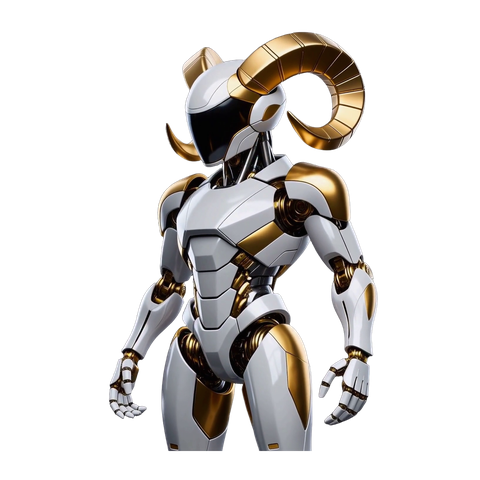
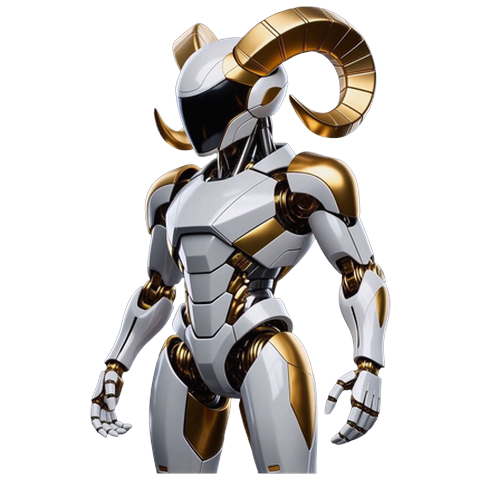
레벨1 보상 흐름 개선: 회전 복귀 연출, 음향 페이드, 지도 자동포커스, 재진입 버그 수정
- 박스가 회전+확대로 나타나는 연출이 느린 기기에서 순간이동처럼 보이던 문제를
  포기하고, 대신 사라졌던 양 그림이 회전하며 중앙으로 되돌아온 뒤 곧바로 검은
  박스+영상으로 전환하는 방식으로 교체(사용자 확인: 이 기기에서 문제없이 재생됨)
- 아이콘 16개가 사라지는 수렴 지점을 양과 더 가깝게 좁힘
- 변신 영상 종료 시 음향 페이드아웃을 ontimeupdate(성김) 대신 매 프레임
  requestAnimationFrame으로 바꾸고, 직선이 아닌 제곱 곡선으로 감쇠(체감상 자연스러움)
- 배경 제거된 완성 로봇 이미지(sheep-final-transparent.png)를 영상 마지막 프레임과
  같은 비율로 재조정(전환 시 크기가 작아 보이던 문제 수정)
- 퍼즐 완료 후 확대+블러 전환: 속도 완화(1.1s→2.5s), 블러 강도 완화(20px→8px),
  전반부는 또렷하게 커지다 후반부에만 블러/페이드 적용
- 지도 화면 진입 시 항상 스테이지1로 리셋되던 것을, 이어할 스테이지(첫 미클리어
  스테이지)로 자동 포커스하도록 수정
- 레벨1 퍼즐을 다 푼 뒤에도 내부 rewardPuzzle 상태가 안 지워져, 뒤로가기로
  재진입하면 "아직 진행 중"으로 착각해 16개 도안 아이콘 목록을 계속 숨기던
  버그 수정
- sw.js 캐시 버전 v257 → v258

Claude-Session: https://claude.ai/code/session_01NsU4JzqSpHxBentSWbq8QE

Changed region(s): [[0.1875, 0.0, 0.8125, 1.0]]

diff --git a/app.js b/app.js
@@ -1114,8 +1114,19 @@
     }
   }
 
+  // 2026-08-22: "스테이지1 클리어로 자동으로 스테이지2 넘어가는데, 지도 화면은 계속
+  // 스테이지1에 떠있다" 신고 — renderMap()이 매번 무조건 mapCarouselIndex를 0(스테이지1)으로
+  // 되돌려서, 진행 상황과 무관하게 항상 첫 스테이지가 보였다. 아직 안 깬 첫 스테이지(=이어할
+  // 곳)를 기본 위치로 잡는다 — 다 깼으면 마지막 스테이지.
+  function defaultMapCarouselIndex() {
+    for (let lv = 1; lv <= TOTAL_LEVELS; lv++) {
+      if (!isLevelCleared(lv)) return lv - 1;
+    }
+    return TOTAL_LEVELS - 1;
+  }
+
   function renderMap() {
-    mapCarouselIndex = 0;
+    mapCarouselIndex = defaultMapCarouselIndex();
     mapGrid.innerHTML = '';
     const wrap = document.createElement('div');
     wrap.className = 'level-node-wrap';
@@ -1365,9 +1376,18 @@
     if (currentLevel > 1) openLevel(currentLevel - 1);
   });
 
+  // 2026-08-22: "왜 오래 걸리는지 모르겠다" — 콘솔에 시간 정보가 없어서 어디서 지연되는지
+  // 못 봤다. 타임스탬프 설정을 못 찾는다는 피드백으로, 로그 문구 자체에 경과시간(ms)을
+  // 박아넣는다(레벨 진입 시점 기준). DevTools 설정을 안 건드려도 된다.
+  let puzzleFlowT0 = 0;
+  function plog(msg) {
+    console.log('[퍼즐] ' + msg + '  (+' + Math.round(performance.now() - puzzleFlowT0) + 'ms)');
+  }
+
   // ================= 레벨별 도안 갤러리 =================
   function openLevel(level) {
-    console.log('[퍼즐] openLevel(' + level + ') 진입');
+    puzzleFlowT0 = performance.now();
+    plog('openLevel(' + level + ') 진입');
     clearPendingCelebrationOverlays();
     currentBossMode = null;
     currentLevel = level;
@@ -1394,6 +1414,7 @@
     // 꼬였다. 재진입 시 이전 영상 재생/콜백을 확실히 끊는다.
     levelRewardVideo.pause();
     levelRewardVideo.onended = null;
+    if (rewardVideoFadeRAF) { cancelAnimationFrame(rewardVideoFadeRAF); rewardVideoFadeRAF = null; }
     levelRewardVideo.removeAttribute('src');
     levelRewardVideo.hidden = true;
     if (isLevelCleared(level)) clearLevelAttempt(level); // 이미 클리어된 레벨은 타이머 불필요
@@ -1843,9 +1864,10 @@
       ghost.style.width = fromRect.width + 'px';
       ghost.style.height = fromRect.height + 'px';
       document.body.appendChild(ghost);
-      // 겹치지 않도록: 도착점을 중앙 지점 주변으로 살짝(±25px) 흩뿌리고, 시작 지연도 조금씩 다르게.
-      const jitterX = (Math.random() - 0.5) * 50;
-      const jitterY = (Math.random() - 0.5) * 50;
+      // 2026-08-22: "양이 사라지는 지점이랑 아이콘 지점이 안 맞아 보인다" 피드백 — 겹침
+      // 방지용 흩뿌림 반경을 ±25px→±8px로 줄여 한 점에 훨씬 가깝게 모이게 한다.
+      const jitterX = (Math.random() - 0.5) * 16;
+      const jitterY = (Math.random() - 0.5) * 16;
       const dx = (targetX + jitterX) - (fromRect.left + fromRect.width / 2);
       const dy = (targetY + jitterY) - (fromRect.top + fromRect.height / 2);
       const delay = i * 25;
@@ -1899,7 +1921,7 @@
     // 재진입 등) 이 가드로 바로 return해버리면 그 아래 숨김 로직을 다시 안 타서 계속 보였다.
     // 진행 중인 퍼즐이 있으면 여기서도 숨김을 다시 확인해준다.
     if (rewardPuzzle && rewardPuzzle.level === level) {
-      console.log('[퍼즐] maybeShowRewardPuzzle: 이미 진행 중(레벨' + level + '), galleryGrid 재숨김');
+      plog('maybeShowRewardPuzzle: 이미 진행 중(레벨' + level + '), galleryGrid 재숨김');
       galleryGrid.hidden = true;
       return; // 이미 진행 중
     }
@@ -1909,7 +1931,7 @@
     const scores = getScores();
     const doneCount = list.filter((t) => isMastered(t.id, scores)).length;
     if (doneCount < list.length) return; // 아직 다 안 깼음
-    console.log('[퍼즐] 16개 완료 확인, 레벨' + level + ' 퍼즐 초기화 시작');
+    plog('16개 완료 확인, 레벨' + level + ' 퍼즐 초기화 시작');
     const dims = puzzleDimsForLevel(level);
     rewardPuzzle = {
       level: level,
@@ -1987,13 +2009,19 @@
   // 나오는 연출(explodeIntoPuzzle)과 같은 방식이라 좌표 계산 없이도 항상 정확하다.
   // 2026-08-22: 트레이-박스-트레이가 계속 움직인다는 신고가 반복됐다 — 원인을 하나씩 막아도
   // (margin:auto 위치, [hidden] 우선순위, align-items, 트레이 접힘...) 매번 다른 경로로 다시
-  // 움직여서, 원인 추적 대신 "물리적으로 움직일 수 없게" 매 프레임 좌표를 다시 박아버리는
-  // watchdog으로 바꾼다 — 뭐가 원인이든 상관없이 100% 고정된다.
-  let rewardTrioLockRAF = null;
+  // 움직여서, 원인 추적 대신 "물리적으로 움직일 수 없게" 좌표를 박아버리는 방식으로 바꿨다.
+  // 처음엔 매 프레임(rAF 루프) 재적용이었는데, 이게 변신 영상 재생 10초 내내 쉬지 않고
+  // 돌면서 느린 기기에서 메인스레드를 영상 디코딩과 계속 다투게 만들어(사용자 실측 영상에서
+  // 확인: 흰 화면 정지 + 박스 확대회전 연출이 안 보이고 순간이동하듯 나타남) 성능 문제를
+  // 일으켰다. 한 번만 고정하고, 화면 크기가 바뀔 때만(리사이즈) 다시 고정하는 걸로 바꾼다 —
+  // 이 좌표를 건드리는 다른 코드가 없는 구간이라(reserveTrayHeight 등은 lock 이전에 끝남)
+  // 안전하다.
+  let rewardTrioLockResizeHandler = null;
+  let rewardVideoFadeRAF = null;
   function lockRewardTrioPosition() {
     const els = [rewardPuzzleTrayTop, levelReward, rewardPuzzleTrayBottom];
-    const fixed = els.map((el) => el.getBoundingClientRect());
     const apply = () => {
+      const fixed = els.map((el) => el.getBoundingClientRect());
       els.forEach((el, i) => {
         el.style.position = 'fixed';
         el.style.top = fixed[i].top + 'px';
@@ -2001,13 +2029,14 @@
         el.style.width = fixed[i].width + 'px';
         el.style.margin = '0';
       });
-      rewardTrioLockRAF = requestAnimationFrame(apply);
     };
-    if (rewardTrioLockRAF) cancelAnimationFrame(rewardTrioLockRAF);
     apply();
+    if (rewardTrioLockResizeHandler) window.removeEventListener('resize', rewardTrioLockResizeHandler);
+    rewardTrioLockResizeHandler = apply;
+    window.addEventListener('resize', rewardTrioLockResizeHandler);
   }
   function unlockRewardTrioPosition() {
-    if (rewardTrioLockRAF) { cancelAnimationFrame(rewardTrioLockRAF); rewardTrioLockRAF = null; }
+    if (rewardTrioLockResizeHandler) { window.removeEventListener('resize', rewardTrioLockResizeHandler); rewardTrioLockResizeHandler = null; }
     [rewardPuzzleTrayTop, levelReward, rewardPuzzleTrayBottom].forEach((el) => {
       el.style.position = '';
       el.style.top = '';
@@ -2018,35 +2047,31 @@
   }
 
   function moveRewardBoxToCenter(level, onDone) {
-    console.log('[퍼즐] moveRewardBoxToCenter 시작 — 박스를 중앙에 점에서부터 확대');
-    // 2026-08-22: "빈 박스가 화면을 가로질러 슬라이드하는 게 이상하다, 중앙에서 점부터
-    // 확대되게" 요청 — 예전엔 원래 자리→중앙으로 실제로 슬라이드(FLIP)했는데, 이 시점엔
-    // 이미 그림/아이콘이 다 사라진 뒤라 "빈 크림색 박스"가 화면을 가로질러 미끄러지는 것처럼
-    // 보였다. 이제 슬라이드 없이 중앙 자리에 바로(안 보이게, scale:0) 배치한 뒤 그 자리에서만
-    // 커지게 한다 — 위치 이동 자체가 없으니 "박스가 위로 간다" 문제도 원천적으로 없다.
+    plog('moveRewardBoxToCenter 시작 — 양이 회전하며 중앙으로 되돌아온 뒤 박스로 전환');
+    // 2026-08-22: "박스가 나타나는" 연출을 여러 방식(회전+확대, 위아래로만 커지기)으로
+    // 시도했는데 느린 기기에서 전부 순간이동처럼 보여 포기 — 대신 방금 중앙으로 사라졌던
+    // 그 양 그림(levelRewardArt)이 회전하며 같은 자리로 되돌아오는 걸로 대체한다(사용자
+    // 확인: "사라졌던 양이 다시 중앙으로", "1번"). 사라지는 쪽(scatterMosaicIn)은 이 기기
+    // 에서도 문제없이 보였으니 그 반대 방향도 같은 이유로 잘 보일 가능성이 높다. 다 돌아온
+    // 뒤엔 곧바로(추가 연출 없이) 검은 박스+영상으로 넘어간다(스타일시트 reward-art-return
+    // 참고).
     galleryGrid.classList.add('gallery-grid-hiding');
     setTimeout(() => {
-      if (currentLevel !== level) { console.log('[퍼즐] moveRewardBoxToCenter: 그 사이 레벨 변경됨(' + currentLevel + '≠' + level + '), 중단'); onDone(); return; }
+      if (currentLevel !== level) { plog('moveRewardBoxToCenter: 그 사이 레벨 변경됨(' + currentLevel + '≠' + level + '), 중단'); onDone(); return; }
       galleryGrid.hidden = true;
       galleryGrid.classList.remove('gallery-grid-hiding');
       reserveTrayHeight(rewardPuzzle.dims); // 트레이가 나중에 채워져도 더는 안 흔들리게 지금 미리 자리를 예약
       levelReward.classList.add('reward-centered');
       rewardPuzzleTrayTop.classList.add('reward-tray-anchor-top');
       rewardPuzzleTrayBottom.classList.add('reward-tray-anchor-bottom');
-      // 2026-08-22: "밋밋하다, 점에서 빙글빙글 돌며 커지면서 제자리로" 요청 — 회전도 같이 준다.
-      levelRewardStage.style.transition = 'none';
-      levelRewardStage.style.transform = 'scale(0) rotate(-540deg)';
-      lockRewardTrioPosition(); // 지금 이 좌표(=화면 중앙)에 매 프레임 강제 고정, 다시는 안 움직임.
-      requestAnimationFrame(() => {
-        requestAnimationFrame(() => {
-          levelRewardStage.style.transition = 'transform 0.7s cubic-bezier(0.34, 1.2, 0.4, 1)';
-          levelRewardStage.style.transform = '';
-          setTimeout(() => {
-            levelRewardStage.style.transition = '';
-            onDone();
-          }, 700);
-        });
-      });
+      lockRewardTrioPosition(); // 지금 이 좌표(=화면 중앙)에 고정, 다시는 안 움직임.
+      levelRewardArt.classList.add('reward-art-return');
+      setTimeout(() => {
+        levelRewardArt.classList.remove('reward-art-return');
+        levelRewardArt.style.opacity = '';
+        levelRewardArt.style.transform = '';
+        onDone();
+      }, 1100);
     }, 320);
   }
 
@@ -2057,7 +2082,7 @@
   // 작은 검정 박스 밖으로 튀어나와 보임. 화면 크기에 안 맞는 고정 배율 대신, 실제 뷰포트
   // 기준으로 배율을 계산해서 어떤 화면에서도 확실히 화면을 덮게 한다.
   function zoomRewardToFullscreenAndAdvance(level) {
-    console.log('[퍼즐] zoomRewardToFullscreenAndAdvance 시작 — 화면 꽉 채우게 확대');
+    plog('zoomRewardToFullscreenAndAdvance 시작 — 화면 꽉 채우게 확대');
     const rect = levelRewardStage.getBoundingClientRect();
     const scale = (Math.max(window.innerWidth, window.innerHeight) / Math.min(rect.width, rect.height)) * 1.15;
     // 2026-08-22: "박스가 위로 올라갔다"(사용자 실측) — playExcellent()의 시각 문구
@@ -2066,23 +2091,31 @@
     playExcellent(true);
     // 2026-08-22: "커지면서 희미해지게" + "클로즈샷 흐리게" 요청 — 확대와 함께 서서히
     // 투명해지고 블러(초점이 나가는 느낌)되다가 다음 레벨로 넘어감.
-    levelRewardStage.style.transition = 'transform 1.1s cubic-bezier(0.45, 0, 0.4, 1), opacity 1.1s ease-in, filter 1.1s ease-in';
+    // 2026-08-22(2차): "너무 확 커진다" — 속도를 늦춘다(1.1s → 2.5s).
+    // 2026-08-22(3차): "너무 희미하고 안 선명하다" — 블러를 20px→8px로 완화하고, 확대
+    // 전반(60%)은 또렷하게 커지기만 하다가 마지막 40%에서만 페이드+블러가 들어가게 한다.
+    const ZOOM_SEC = 2.5;
+    const FADE_DELAY_SEC = ZOOM_SEC * 0.6;
+    const FADE_SEC = ZOOM_SEC - FADE_DELAY_SEC;
+    levelRewardStage.style.transition = 'transform ' + ZOOM_SEC + 's cubic-bezier(0.45, 0, 0.4, 1), '
+      + 'opacity ' + FADE_SEC + 's ease-in ' + FADE_DELAY_SEC + 's, '
+      + 'filter ' + FADE_SEC + 's ease-in ' + FADE_DELAY_SEC + 's';
     requestAnimationFrame(() => {
       levelRewardStage.style.transform = 'scale(' + scale.toFixed(2) + ')';
       levelRewardStage.style.opacity = '0';
-      levelRewardStage.style.filter = 'blur(20px)';
+      levelRewardStage.style.filter = 'blur(8px)';
     });
     setTimeout(() => {
-      if (currentLevel !== level) { console.log('[퍼즐] 확대 완료 시점에 레벨 불일치, 다음 레벨 이동 안 함'); return; }
+      if (currentLevel !== level) { plog('확대 완료 시점에 레벨 불일치, 다음 레벨 이동 안 함'); return; }
       const nextLevel = level + 1;
       if (nextLevel <= TOTAL_LEVELS && isLevelUnlocked(nextLevel)) {
-        console.log('[퍼즐] 다음 스테이지(' + nextLevel + ')로 이동');
+        plog('다음 스테이지(' + nextLevel + ')로 이동');
         openLevel(nextLevel);
       } else {
-        console.log('[퍼즐] 다음 스테이지 없음/잠김 — 지도로 이동');
+        plog('다음 스테이지 없음/잠김 — 지도로 이동');
         goToMap();
       }
-    }, 1100);
+    }, 2500);
   }
 
   // 레벨1: goal 박스(#level-reward-stage) 안에서만 변신 영상을 재생한다. 영상 원본 배경이
@@ -2109,19 +2142,31 @@
         levelRewardVideo.muted = true;
         levelRewardVideo.play();
       });
-      console.log('[퍼즐] 변신 영상 재생 시작');
+      plog('변신 영상 재생 시작');
       // 2026-08-22: "마지막에 소리가 뚝 끊겨서 이상하다" 요청 — 원본 음원 자체가 페이드아웃
       // 없이 끝나서, 끝나기 직전 0.6초 동안 볼륨을 서서히 낮춰 부드럽게 마무리한다.
+      // 처음엔 ontimeupdate로 했는데, 이 이벤트는 브라우저가 대략 초당 4번 정도만 불러줘서
+      // (스펙상 보장 안 됨) 0.6초짜리 페이드 구간에 1~2번밖에 안 걸려 여전히 뚝 끊기는
+      // 것처럼 들렸다 — 매 프레임 확인하는 requestAnimationFrame으로 바꿔 촘촘하게 낮춘다.
       const FADE_OUT_SEC = 0.6;
-      levelRewardVideo.ontimeupdate = () => {
+      if (rewardVideoFadeRAF) cancelAnimationFrame(rewardVideoFadeRAF);
+      const fadeTick = () => {
+        if (levelRewardVideo.paused || levelRewardVideo.ended) { rewardVideoFadeRAF = null; return; }
         const remain = levelRewardVideo.duration - levelRewardVideo.currentTime;
         if (isFinite(remain) && remain <= FADE_OUT_SEC) {
-          levelRewardVideo.volume = Math.max(0, remain / FADE_OUT_SEC);
+          // 2026-08-22: "그래도 끊기는 느낌" — 볼륨을 직선(linear)으로 줄이면, 사람 귀는
+          // 소리 크기를 로그로 느끼기 때문에 대부분 구간에서 거의 안 줄어든 것처럼 들리다가
+          // 막판에 갑자기 확 조용해져 여전히 "뚝 끊김"처럼 느껴진다. 제곱 곡선으로 바꿔
+          // 체감 감쇠를 고르게 만든다.
+          const t = Math.max(0, remain / FADE_OUT_SEC);
+          levelRewardVideo.volume = t * t;
         }
+        rewardVideoFadeRAF = requestAnimationFrame(fadeTick);
       };
+      rewardVideoFadeRAF = requestAnimationFrame(fadeTick);
       levelRewardVideo.onended = () => {
-        console.log('[퍼즐] 영상 종료(onended) — currentLevel=' + currentLevel + ', 대상레벨=' + level);
-        if (currentLevel !== level) { console.log('[퍼즐] 레벨 불일치로 중단(이 영상은 무시됨)'); return; }
+        plog('영상 종료(onended) — currentLevel=' + currentLevel + ', 대상레벨=' + level);
+        if (currentLevel !== level) { plog('레벨 불일치로 중단(이 영상은 무시됨)'); return; }
         // 마지막 프레임(변신 완료된 로봇양)에서 정지된 채로 잠깐 보여준다.
         setTimeout(() => {
           if (currentLevel !== level) return;
@@ -2302,9 +2347,9 @@
   }
 
   function explodeIntoPuzzle(level) {
-    console.log('[퍼즐] explodeIntoPuzzle 호출 — currentLevel=' + currentLevel + ', 대상레벨=' + level);
-    if (currentLevel !== level) { console.log('[퍼즐] 레벨 불일치로 중단'); return; } // 그 사이 다른 레벨로 이동했으면 건너뜀
-    console.log('[퍼즐] 조각 16개로 터짐 시작(트레이 생성)');
+    plog('explodeIntoPuzzle 호출 — currentLevel=' + currentLevel + ', 대상레벨=' + level);
+    if (currentLevel !== level) { plog('레벨 불일치로 중단'); return; } // 그 사이 다른 레벨로 이동했으면 건너뜀
+    plog('조각 16개로 터짐 시작(트레이 생성)');
     const art = LEVEL_REWARD_ART[level];
     // 퍼즐 미리보기 버튼: 이 레벨의 완성 이미지를 썸네일/모달 소스로 채우고 보여준다.
     const puzzleEmoji = art.puzzleEmoji || art.emoji;
@@ -2388,7 +2433,7 @@
   // playExcellent/showLevelClearPraise 재활용)를 재생. "다음" 버튼은 애니메이션을 기다리지
   // 않고 즉시 열림(다른 레벨들과 동일).
   function finishRewardPuzzle(level) {
-    console.log('[퍼즐] finishRewardPuzzle 시작(레벨' + level + ') — 칸 선 사라짐 → 완성 이미지 크로스페이드');
+    plog('finishRewardPuzzle 시작(레벨' + level + ') — 칸 선 사라짐 → 완성 이미지 크로스페이드');
     btnPuzzleMagnify.hidden = true; // 다 맞췄으니 미리보기 버튼은 필요 없음
     levelRewardStageBg.classList.remove('is-dark'); // 퍼즐 완료 시 검정 배경 원복(요청).
     const art = LEVEL_REWARD_ART[level];
@@ -2575,14 +2620,19 @@
     // 안 되므로 되돌림(빈 트레이 공간보다 박스 위치 안정이 우선).
     playPuzzleCorrectSfx();
     if (navigator.vibrate) { try { navigator.vibrate(40); } catch (e) { /* 무시 */ } }
-    if (rewardPuzzle) console.log('[퍼즐] 조각 배치: cell-' + cellIndex + ' (' + rewardPuzzle.solved.size + '/' + (rewardPuzzle.dims.cols * rewardPuzzle.dims.rows) + ')');
+    if (rewardPuzzle) plog('조각 배치: cell-' + cellIndex + ' (' + rewardPuzzle.solved.size + '/' + (rewardPuzzle.dims.cols * rewardPuzzle.dims.rows) + ')');
     if (rewardPuzzle && rewardPuzzle.solved.size >= rewardPuzzle.dims.cols * rewardPuzzle.dims.rows) {
       const solvedLevel = rewardPuzzle.level;
-      console.log('[퍼즐] 16/16 완성 — finishRewardPuzzle 호출');
+      plog('16/16 완성 — finishRewardPuzzle 호출');
       rewardPuzzleSolvedLevels.add(solvedLevel);
       markRewardPuzzleSolvedPersisted(solvedLevel);
       rewardPuzzleTrayTop.hidden = true;
       rewardPuzzleTrayBottom.hidden = true;
+      // 2026-08-22: "완료된 레벨1로 뒤로가기하면 로봇만 있고 16개 원이 안 보인다" 신고 원인 —
+      // 다 푼 뒤에도 rewardPuzzle이 그대로 남아있어서, maybeShowRewardPuzzle의 "이미 진행
+      // 중"(rewardPuzzle.level===level) 체크가 계속 참이 되어 galleryGrid를 매번 다시
+      // 숨겼다. 다 푼 시점에 null로 비워 이 오판을 없앤다.
+      rewardPuzzle = null;
       finishRewardPuzzle(solvedLevel);
     }
   }

diff --git a/style.css b/style.css
@@ -883,6 +883,17 @@ button:active { transform: scale(0.94); }
   transition: background-color 0.6s ease;
 }
 .level-reward-stage-bg.is-dark { background: #000; }
+/* 2026-08-22: "박스가 나타나는" 연출(회전+확대, 위아래로만 커지기 등 여러 시도)이 느린
+   기기에서 전부 순간이동처럼 보여 포기 — 대신 방금 사라졌던 양 그림이 같은 자리로 되돌아오는
+   걸로 대체한다(사용자 확인: "1번"). 사라지는 쪽(scatterMosaicIn)은 이 기기에서도 문제없이
+   보였으니, 그 반대 방향(작고 회전된 상태 → 원래 크기)이 같은 이유로 잘 보일 가능성이 높다. */
+@keyframes reward-art-return {
+  from { transform: scale(0.2) rotate(540deg); opacity: 0; }
+  to { transform: scale(1) rotate(0deg); opacity: 1; }
+}
+.level-reward-art.reward-art-return {
+  animation: reward-art-return 1.1s cubic-bezier(0.34, 1.2, 0.4, 1) forwards;
+}
 /* 2026-08-22: "모자이크/영상은 모서리가 직각인데 퍼즐 박스는 완만하다" 피드백 — 기본은
    퍼즐 박스와 같은 16px 둥근 모서리로 잘라내고(overflow:hidden), 조각을 날려보내는
    연출(.launched 등, 아래)만 그 경계를 넘어가야 해서 그때만 다시 overflow:visible로 푼다. */

diff --git a/sw.js b/sw.js
@@ -1,4 +1,4 @@
-const CACHE_NAME = 'coloring-app-v257';
+const CACHE_NAME = 'coloring-app-v258';
 // 2026-08-11: cache.addAll()은 원자적이라 목록 중 하나라도 못 받아오면 설치 전체가 실패한다.
 // boss-battle 배경음악(6.8MB, 다른 음악의 10배 이상 큼)이 이 목록에 있으면 네트워크가 조금만
 // 불안정해도 그 파일 하나 때문에 서비스워커 설치 자체가 실패해서 앱 전체가 계속 낡은 캐시에
